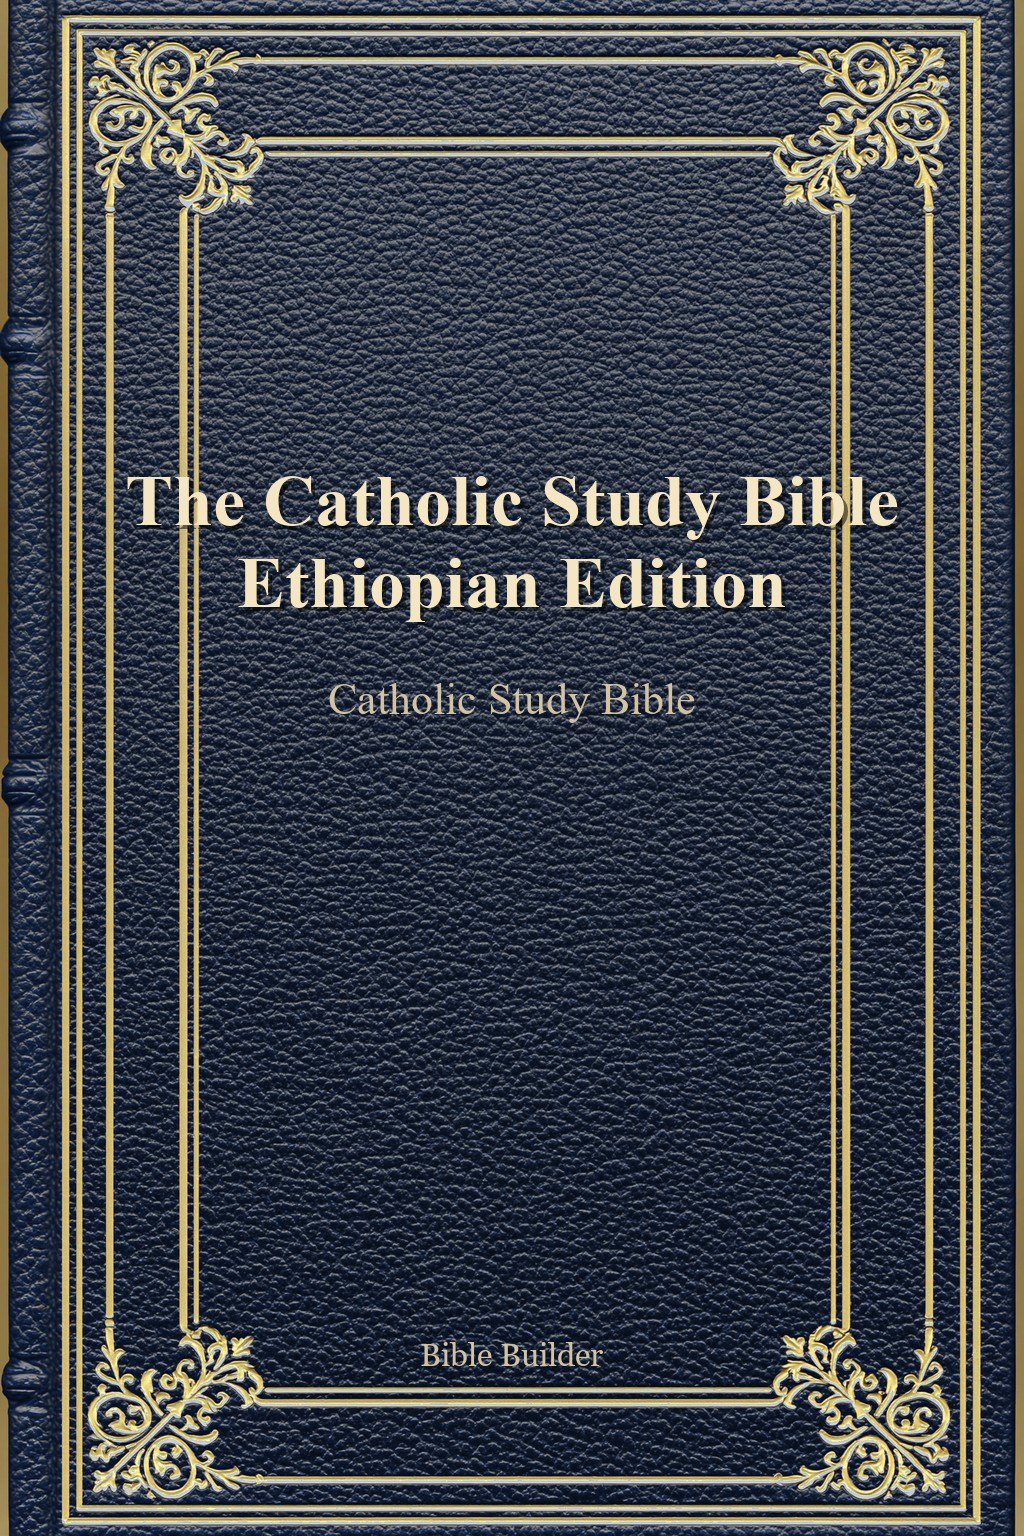
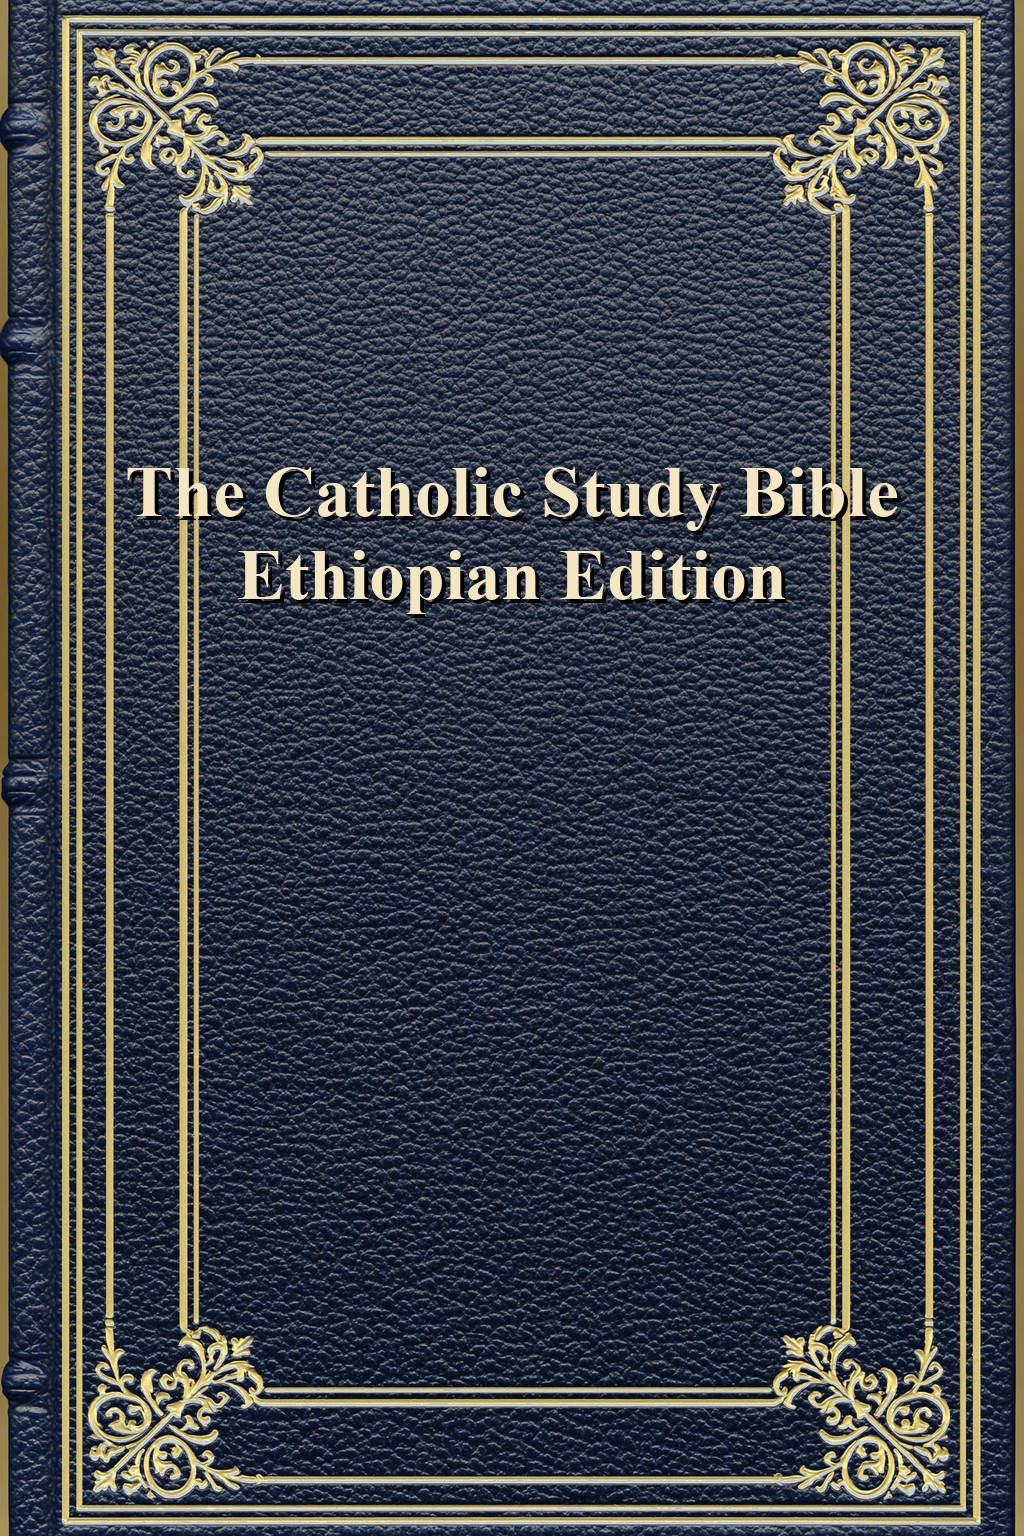
Title-only edition covers + universal PIL-anchor placement (Wave 2)
Per approved spec 4.6 (user-confirmed 2026-05-24): drop the subtitle/short-title line and the Bible Builder publisher mark from generated covers, rendering ONLY the edition title. Recenter the single title block universally via PIL multiline_textbbox centering at TITLE_CENTER_Y, replacing the hardcoded title_y=460 + per-line bbox drift. EDITIONS simplified to (id, template, title) 3-tuples; removed the now-dead _draw_centered_text helper + subtitle/publisher fonts and colors. Regenerated all 9 covers; visually verified two template families (catholic-study navy, ethiopian-tewahedo red).

Verified: TestComposeCover (TDD red->green); 6 cover unit tests + 62 test_scripts cover/generator pins pass; ruff clean.

Changed region(s): [[0.125, 0.2812, 0.875, 0.4062], [0.3125, 0.4375, 0.6875, 0.4688], [0.4062, 0.875, 0.5938, 0.9062]]

diff --git a/scripts/generate_edition_covers.py b/scripts/generate_edition_covers.py
@@ -1,16 +1,20 @@
-"""Generate 9 edition main cover JPGs by compositing typography onto
-the existing `content/covers/templates/` family.
+"""Generate the 9 edition main cover JPGs by compositing the edition title
+onto the existing `content/covers/templates/` family.
 
-ω.38 (C6 closure — 2026-05-13).
+ω.38 (C6 closure — 2026-05-13); title-only recenter (Wave 2 — 2026-05-25).
 
 The audit (`AUDIT_2026-05-12-C`) flagged C6: `editions.yaml` declares
 `cover_image: "covers/<edition-id>.jpg"` for every edition, but those
-files did not exist — the wizard's BUILD step emitted EPUBs whose
-cover slot resolved to a missing path. This script generates the
-missing 9 main covers using the existing 25-template library
-(5 design families × 5 colors) by compositing each edition's
-title + short-title + publisher mark onto a tradition-appropriate
-template.
+files did not exist — the wizard's BUILD step emitted EPUBs whose cover
+slot resolved to a missing path. This script generates the 9 main covers
+from the 25-template library (5 design families × 5 colors) by compositing
+each edition's title onto a tradition-appropriate template.
+
+Per spec §4.6 (user-confirmed 2026-05-24) the cover is TITLE-ONLY: the
+former subtitle/short-title line and the "Bible Builder" publisher mark
+were dropped (that descriptive detail now lives on the "About this Edition"
+front-matter page), leaving a single centered title block that places
+cleanly across every design.
 
 Mapping rationale:
 
@@ -24,13 +28,9 @@ Mapping rationale:
 - lutheran-confessional→02_classical_corner_black(Lutheran black)
 - coptic-orthodox     → 01_ornate_leafy_brown    (Coptic earth tones)
 
-Note: 04_minimal_lines_* templates carry a central jewel/cross
-ornament that visually clashes with subtitle text; avoid for
-editions that need a subtitle line below the title.
-
-The colour-to-tradition mapping is editorially defensible; publishers
-can swap to a bespoke cover via `api_save_edition_meta` (the
-`cover_image` field accepts any path under `content/covers/`).
+The colour-to-tradition mapping is editorially defensible; publishers can
+swap to a bespoke cover via `api_save_edition_meta` (the `cover_image`
+field accepts any path under `content/covers/`).
 
 Run: `python scripts/generate_edition_covers.py`
 """
@@ -46,75 +46,19 @@ REPO_ROOT = Path(__file__).resolve().parent.parent
 COVERS_DIR = REPO_ROOT / "content" / "covers"
 TEMPLATES_DIR = COVERS_DIR / "templates"
 
-# Edition → (template stem, title, short_title, publisher mark).
-# Title is the full marketing title; short_title is the spine/badge
-# variant. Publisher mark sits at the bottom — "Bible Builder" by
-# default; per-edition overrides could come from editions.yaml in a
-# future iteration.
-EDITIONS: list[tuple[str, str, str, str, str]] = [
-    (
-        "ethiopian-tewahedo",
-        "05_missal_central_red",
-        "The Ethiopian Tewahedo\nStudy Bible",
-        "Tewahedo Study Bible",
-        "Bible Builder",
-    ),
-    (
-        "catholic-study",
-        "02_classical_corner_navy",
-        "The Catholic Study Bible\nEthiopian Edition",
-        "Catholic Study Bible",
-        "Bible Builder",
-    ),
-    (
-        "evangelical-reformed",
-        "03_beadline_black",
-        "The Reformed\nStudy Bible",
-        "Reformed Study Bible",
-        "Bible Builder",
-    ),
-    (
-        "jewish-study",
-        "02_classical_corner_brown",
-        "The Jewish\nStudy Tanakh",
-        "Jewish Study Tanakh",
-        "Bible Builder",
-    ),
-    (
-        "scholarly-academic",
-        "03_beadline_forest",
-        "The Annotated\nEthiopian Bible",
-        "Scholar's Edition",
-        "Bible Builder",
-    ),
-    (
-        "eastern-orthodox",
-        "01_ornate_leafy_red",
-        "The Eastern Orthodox\nStudy Bible",
-        "Orthodox Study Bible",
-        "Bible Builder",
-    ),
-    (
-        "anglican-bcp",
-        "03_beadline_navy",
-        "The Anglican Study Bible\nBCP Edition",
-        "Anglican BCP",
-        "Bible Builder",
-    ),
-    (
-        "lutheran-confessional",
-        "02_classical_corner_black",
-        "The Lutheran\nConfessional Study Bible",
-        "Lutheran Confessional",
-        "Bible Builder",
-    ),
-    (
-        "coptic-orthodox",
-        "01_ornate_leafy_brown",
-        "The Coptic Orthodox\nStudy Bible",
-        "Coptic Study Bible",
-        "Bible Builder",
-    ),
+# Edition → (template stem, title). The title's newline-separated lines
+# render as a centered block. Cover is title-only (see module docstring), so
+# no subtitle/short-title or publisher mark is carried here.
+EDITIONS: list[tuple[str, str, str]] = [
+    ("ethiopian-tewahedo", "05_missal_central_red", "The Ethiopian Tewahedo\nStudy Bible"),
+    ("catholic-study", "02_classical_corner_navy", "The Catholic Study Bible\nEthiopian Edition"),
+    ("evangelical-reformed", "03_beadline_black", "The Reformed\nStudy Bible"),
+    ("jewish-study", "02_classical_corner_brown", "The Jewish\nStudy Tanakh"),
+    ("scholarly-academic", "03_beadline_forest", "The Annotated\nEthiopian Bible"),
+    ("eastern-orthodox", "01_ornate_leafy_red", "The Eastern Orthodox\nStudy Bible"),
+    ("anglican-bcp", "03_beadline_navy", "The Anglican Study Bible\nBCP Edition"),
+    ("lutheran-confessional", "02_classical_corner_black", "The Lutheran\nConfessional Study Bible"),
+    ("coptic-orthodox", "01_ornate_leafy_brown", "The Coptic Orthodox\nStudy Bible"),
 ]
 
 # Final cover dimensions — match the existing _book_defaults pattern.
@@ -123,17 +67,19 @@ EDITIONS: list[tuple[str, str, str, str, str]] = [
 FINAL_WIDTH = 1024
 FINAL_HEIGHT = 1536
 
-# Title typography: warm cream/parchment so it reads against the
-# dark backgrounds and harmonises with the gold accents on each
-# template. Slight transparency in shadow gives subtle depth.
+# Title typography: warm cream/parchment reads against the dark template
+# backgrounds and harmonises with their gold accents; a soft drop-shadow
+# adds depth + legibility.
 TITLE_COLOR = (245, 230, 195)  # warm cream
 TITLE_SHADOW = (0, 0, 0, 130)
-PUBLISHER_COLOR = (210, 195, 165)  # muted gold
+# Title-only covers center a single block. Its vertical midpoint sits in the
+# upper third — above any central template ornament, below the top border —
+# so 1-, 2-, and 3-line titles all balance identically.
+TITLE_CENTER_Y = 540
+TITLE_LINE_SPACING = 18
 
-# Font paths — Times New Roman + Georgia ship with Windows.
+# Font path — Times New Roman bold ships with Windows.
 FONT_TITLE_PATH = r"C:\Windows\Fonts\timesbd.ttf"
-FONT_SUBTITLE_PATH = r"C:\Windows\Fonts\times.ttf"
-FONT_PUBLISHER_PATH = r"C:\Windows\Fonts\georgia.ttf"
 
 
 def _load_font(path: str, size: int) -> ImageFont.FreeTypeFont:
@@ -142,113 +88,53 @@ def _load_font(path: str, size: int) -> ImageFont.FreeTypeFont:
     p = Path(path)
     if p.is_file():
         return ImageFont.truetype(str(p), size=size)
-    # Cross-platform fallback — won't match Windows aesthetic but
+    # Cross-platform fallback — won't match the Windows aesthetic but
     # produces a readable cover.
     return ImageFont.load_default(size=size)
 
 
-def _draw_centered_text(
-    draw: ImageDraw.ImageDraw,
-    text: str,
-    font: ImageFont.FreeTypeFont,
-    *,
-    center_x: int,
-    y: int,
-    fill: tuple[int, int, int],
-    shadow: tuple[int, int, int, int] | None = None,
-    line_spacing: int = 14,
-) -> int:
-    """Draw multiline text centered on `center_x`, top-anchored at `y`.
-    Returns the final y-coordinate after the last line."""
-    lines = text.split("\n")
-    cy = y
-    for line in lines:
-        bbox = draw.textbbox((0, 0), line, font=font)
-        line_w = bbox[2] - bbox[0]
-        line_h = bbox[3] - bbox[1]
-        x = center_x - line_w // 2
-        if shadow is not None:
-            # Composite shadow via a separate transparent layer
-            shadow_layer = Image.new("RGBA", (line_w + 30, line_h + 30), (0, 0, 0, 0))
-            sd = ImageDraw.Draw(shadow_layer)
-            sd.text((15, 15), line, font=font, fill=shadow)
-            # Drop-shadow offset
-            draw._image.paste(  # type: ignore[attr-defined]
-                shadow_layer, (x - 15 + 4, cy - 15 + 4), shadow_layer
-            )
-        draw.text((x, cy), line, font=font, fill=fill)
-        cy += line_h + line_spacing
-    return cy
-
-
-def _generate_one(edition_id: str, template_stem: str, title: str, short_title: str, publisher_mark: str) -> Path:
-    """Composite typography onto one template; write the result to
-    `content/covers/<edition-id>.jpg`."""
+def _compose_cover(template_stem: str, title: str) -> Image.Image:
+    """Composite the TITLE ONLY onto a template; return the RGB cover at the
+    final dimensions. The title is a single block centered horizontally and
+    vertically about ``TITLE_CENTER_Y`` — measured with PIL's multiline bbox so
+    1-, 2-, and 3-line titles balance identically (no per-line bearing drift)."""
     template_path = TEMPLATES_DIR / f"{template_stem}.png"
     if not template_path.is_file():
         raise FileNotFoundError(f"template missing: {template_path}")
 
     base = Image.open(template_path).convert("RGB")
-    # Resize template to the final dimensions BEFORE compositing so
-    # the typography is laid out in the final coordinate space.
+    # Resize to final dimensions BEFORE compositing so the title is laid out
+    # in the final coordinate space.
     base = base.resize((FINAL_WIDTH, FINAL_HEIGHT), Image.LANCZOS)
     draw = ImageDraw.Draw(base, "RGBA")
+    font = _load_font(FONT_TITLE_PATH, 72)
 
-    # Title fits the top-third of the inner rectangle. The templates
-    # have ~12% borders, so the inner area runs roughly y=180 to
-    # y=1380 (out of 1536). Title centerline sits ~y=520.
-    font_title = _load_font(FONT_TITLE_PATH, 72)
-    font_subtitle = _load_font(FONT_SUBTITLE_PATH, 44)
-    font_publisher = _load_font(FONT_PUBLISHER_PATH, 32)
+    # Measure the whole block, then place its top-left so the block centers at
+    # (FINAL_WIDTH/2, TITLE_CENTER_Y). Subtracting bbox[0]/bbox[1] removes the
+    # font's left/top bearing, so the centering is exact.
+    bbox = draw.multiline_textbbox((0, 0), title, font=font, align="center", spacing=TITLE_LINE_SPACING)
+    block_w, block_h = bbox[2] - bbox[0], bbox[3] - bbox[1]
+    x = (FINAL_WIDTH - block_w) // 2 - bbox[0]
+    y = TITLE_CENTER_Y - block_h // 2 - bbox[1]
 
-    title_y = 460
-    end_y = _draw_centered_text(
-        draw,
-        title,
-        font_title,
-        center_x=FINAL_WIDTH // 2,
-        y=title_y,
-        fill=TITLE_COLOR,
-        shadow=TITLE_SHADOW,
-        line_spacing=18,
-    )
+    draw.multiline_text((x + 4, y + 4), title, font=font, fill=TITLE_SHADOW, align="center", spacing=TITLE_LINE_SPACING)
+    draw.multiline_text((x, y), title, font=font, fill=TITLE_COLOR, align="center", spacing=TITLE_LINE_SPACING)
+    return base
 
-    # Subtitle / short-title sits beneath the title with a small gap.
-    subtitle_y = end_y + 50
-    _draw_centered_text(
-        draw,
-        short_title,
-        font_subtitle,
-        center_x=FINAL_WIDTH // 2,
-        y=subtitle_y,
-        fill=PUBLISHER_COLOR,
-        line_spacing=12,
-    )
 
-    # Publisher mark at the bottom — small, restrained, italic-ish
-    # spacing via the Georgia regular face.
-    bbox = draw.textbbox((0, 0), publisher_mark, font=font_publisher)
-    pub_w = bbox[2] - bbox[0]
-    pub_y = FINAL_HEIGHT - 200
-    draw.text(
-        ((FINAL_WIDTH - pub_w) // 2, pub_y),
-        publisher_mark,
-        font=font_publisher,
-        fill=PUBLISHER_COLOR,
-    )
-
+def _generate_one(edition_id: str, template_stem: str, title: str) -> Path:
+    """Compose the title-only cover and write it to ``content/covers/<id>.jpg``."""
+    base = _compose_cover(template_stem, title)
     out_path = COVERS_DIR / f"{edition_id}.jpg"
     base.save(out_path, "JPEG", quality=90, optimize=True)
     return out_path
 
 
 def generate_all() -> list[Path]:
-    """Generate every edition's main cover JPG; return the list of
-    paths produced (in the order shipped to disk)."""
+    """Generate every edition's main cover JPG; return the paths produced."""
     out: list[Path] = []
-    for edition_id, template_stem, title, short_title, mark in EDITIONS:
-        path = _generate_one(edition_id, template_stem, title, short_title, mark)
-        out.append(path)
+    for edition_id, template_stem, title in EDITIONS:
+        out.append(_generate_one(edition_id, template_stem, title))
     return out
 
 

diff --git a/tests/test_covers.py b/tests/test_covers.py
@@ -80,3 +80,26 @@ class TestCoverReachesEpub:
             epub_cover = zf.read(cover_name)
 
         assert epub_cover == (COVERS / "catholic-study.jpg").read_bytes()
+
+
+class TestComposeCover:
+    """Title-only cover composition (spec §4.6, user-confirmed 2026-05-24):
+    the generated cover carries ONLY the edition title — no subtitle/short-title
+    and no publisher mark — recentered as a single block across designs."""
+
+    def test_editions_are_title_only_triples(self):
+        from scripts.generate_edition_covers import EDITIONS
+
+        # (edition_id, template_stem, title) — the dropped subtitle + publisher
+        # mark are no longer carried (their content moved to "About this Edition").
+        assert EDITIONS, "EDITIONS must not be empty"
+        assert all(len(row) == 3 for row in EDITIONS), (
+            f"title-only: every EDITIONS row must be a 3-tuple; got arities {sorted({len(r) for r in EDITIONS})}"
+        )
+
+    def test_compose_returns_final_dimensions(self):
+        from scripts.generate_edition_covers import FINAL_HEIGHT, FINAL_WIDTH, _compose_cover
+
+        img = _compose_cover("02_classical_corner_navy", "The Catholic Study Bible\nEthiopian Edition")
+        assert img.size == (FINAL_WIDTH, FINAL_HEIGHT)
+        assert img.mode == "RGB"
